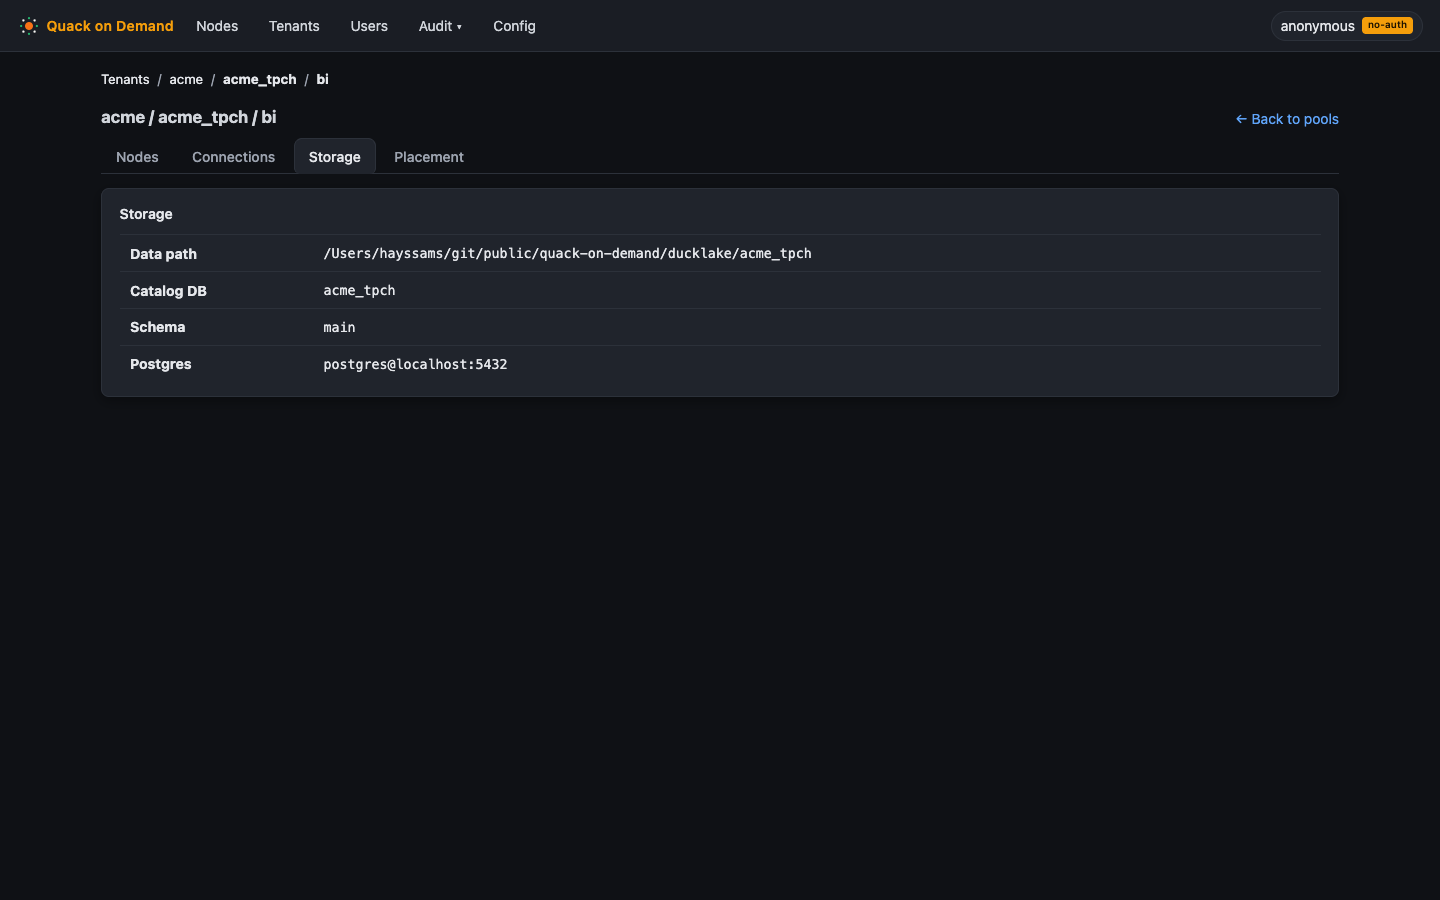
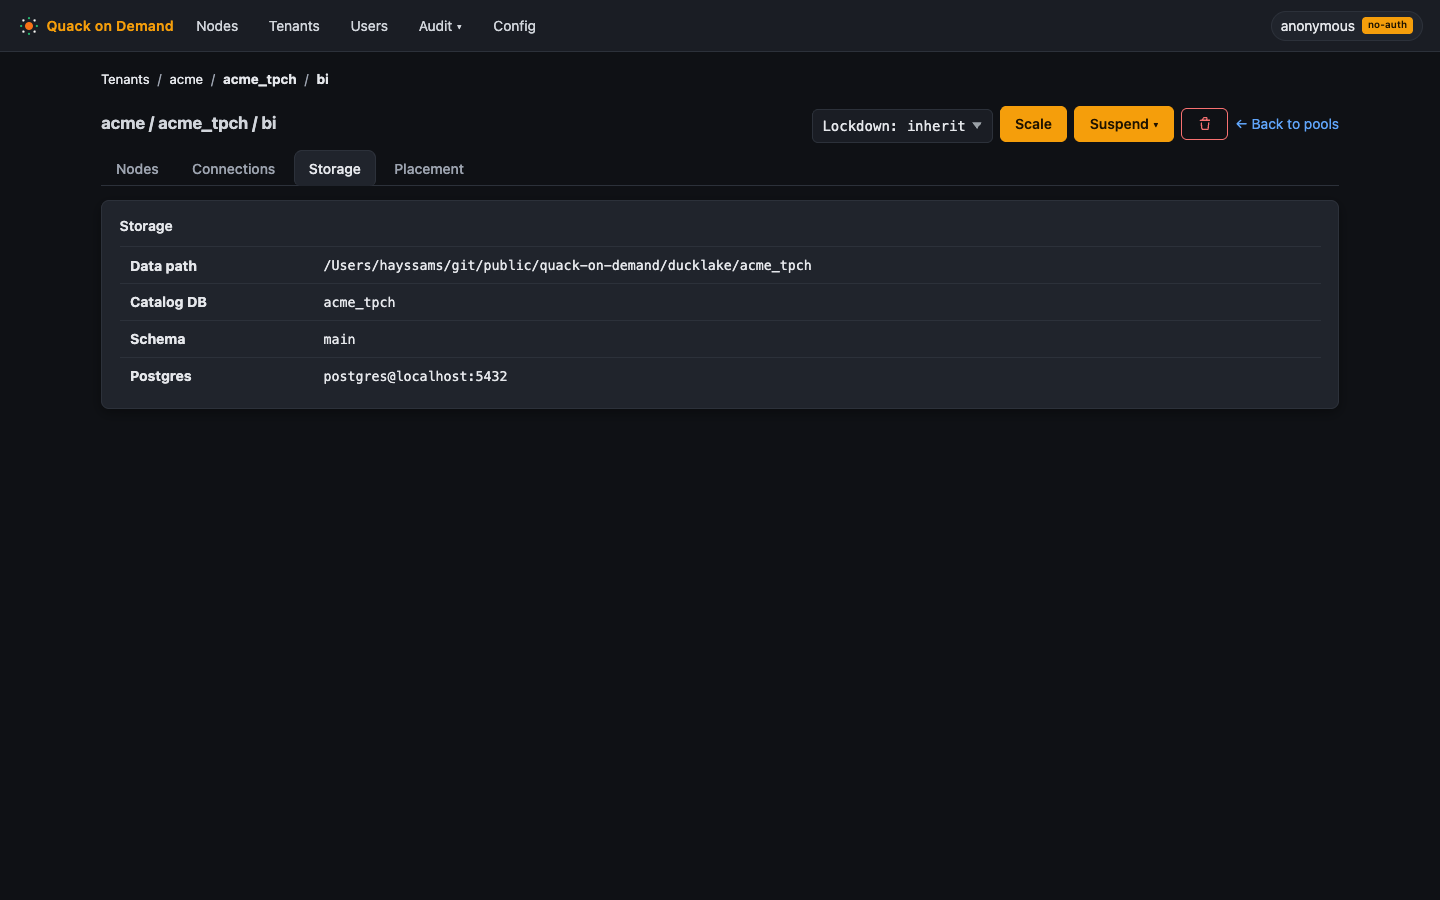
docs: mark project stable and refresh pool UI screenshots
README project status goes from Beta to Stable and the single-instance
paragraph now notes opt-in active-active HA on Kubernetes.

Pool lifecycle actions (Scale / Suspend menu with Hibernate-Drain-Kill /
Delete) moved from the tenant Pools list to the pool detail header, so the
screenshots and the admin-ui / day-2 / lifecycle prose are updated to match,
including a new pool-detail-suspend-menu image.

Changed region(s): [[0.0625, 0.1244, 0.9375, 0.4667], [0.6875, 0.0933, 0.9375, 0.1556], [0.5625, 0.1244, 0.6562, 0.1556]]

diff --git a/website/docs/operating/admin-ui.md b/website/docs/operating/admin-ui.md
@@ -80,17 +80,20 @@ Clicking **Federation** opens the federated-source panel, where DuckDB `ATTACH` 
 
 ### Pools
 
-The **Pools** tab lists each pool with its database, node count, an enable/disable toggle, and actions:
+The **Pools** tab lists each pool with its database, node count, and an enable/disable toggle. Clicking a pool name opens the pool detail inline; the lifecycle actions (Scale, Suspend, Delete) live on the detail page.
 
-- **Scale** opens a modal with the target role distribution (WriteOnly / ReadOnly / Dual counts) and, when scaling down, a **Force** checkbox that skips the graceful drain (outstanding queries fail).
-- **Drain** is the graceful stop (stop accepting new queries, then shut down); **Force** stops immediately.
-- **Delete** removes the pool from the registry after stopping it.
-
-The **New pool** form takes the role distribution, optional pool init SQL, optional CPU and memory limits for the pool's node pods (sliders; applied as both request and limit on Kubernetes), a **Create disabled** toggle (nodes spawn, but the edge rejects fresh handshakes until enabled), and the node-placement section described below. Clicking a pool name opens the pool detail inline.
+The **New pool** form takes the role distribution, optional pool init SQL, optional CPU and memory limits for the pool's node pods (sliders; applied as both request and limit on Kubernetes), a **Create disabled** toggle (nodes spawn, but the edge rejects fresh handshakes until enabled), and the node-placement section described below.
 
 ### Pool detail
 
-The pool detail page has tabs for **Nodes**, **Connections**, **Storage**, and **Placement**.
+The pool detail page has tabs for **Nodes**, **Connections**, **Storage**, and **Placement**. Its header carries the pool's lifecycle actions:
+
+- **Scale** opens a modal with the target role distribution (WriteOnly / ReadOnly / Dual counts; the target size is their sum) and, when scaling down, a **Force** checkbox that skips the graceful drain (outstanding queries fail).
+- **Suspend** is a menu with three ways to zero nodes: **Hibernate** (nodes stop, the role distribution is kept, and the first query wakes the pool automatically), **Drain** (finish routing, then stop; stays down), and **Kill** (stop immediately; outstanding queries fail; stays down). A hibernated pool shows a **Hibernated** badge and the menu is replaced by a **Wake** button.
+- **Delete** (the trash button) removes the pool from the registry after stopping it.
+- Superusers also get the pool's **Lockdown** override selector (`inherit | on | off`), described in [Hardening](/operating/hardening).
+
+![The pool Suspend menu with Hibernate, Drain, and Kill](/img/ui/pool-detail-suspend-menu.png)
 
 The **Nodes** tab shows the per-node table with role, host, and port, plus per-pool **CPU limit** and **Memory limit** editors (checkbox + slider, with a **Save** button; a note reminds that node restarts apply resource changes and that sizing is Kubernetes-only) and a per-node **Max concurrent** input (0 = unlimited, saved on blur). Superusers get the same **Quarantine** / **Restart** actions as on the Nodes page.
 

diff --git a/website/docs/administration/day-2-operations.md b/website/docs/administration/day-2-operations.md
@@ -58,7 +58,7 @@ Per-node fields surfaced via `qod --json pool list`:
 1. Click **Tenants** in the top navigation bar and select the target tenant.
 2. On the **Pools** tab, click the pool name to open its detail page.
 3. Click **Scale**.
-4. Set the new **Target size** (total node count) and adjust the **Role distribution** sliders (WriteOnly, ReadOnly, Dual). The distribution must sum to the target size.
+4. Set the **Role distribution** counts (WriteOnly, ReadOnly, Dual). The target size is their sum, shown above the form.
 5. Click **Apply**. The manager computes the diff: surplus nodes are stopped, and deficit nodes are spawned.
 
 ![Pool detail](/img/ui/pool-detail.png)
@@ -98,10 +98,12 @@ qod pool scale --tenant acme --db acme_tpch --pool bi --target-size 6 \
 
 **Steps (UI):**
 
-1. Click **Tenants**, select the tenant, and open the **Pools** tab.
-2. Two stop actions appear per pool:
+1. Click **Tenants**, select the tenant, open the **Pools** tab, and click the pool name to open its detail page.
+2. The **Suspend** menu in the header offers two stop actions:
    - **Drain** - graceful stop. Each node is marked as draining in the router so no new statements are routed to it, then the node process is stopped. Use this during planned maintenance when you want to stop routing new queries to the pool before it shuts down. Drain does not wait for in-flight queries to finish, so statements already executing on a node can still be interrupted.
-   - **Force** - immediate stop. Nodes are stopped without a draining period. Any statements in flight on those nodes are failed and returned to the client as errors. Use this when a pool is wedged and drain is not making progress.
+   - **Kill** - immediate stop (`force` on the REST and CLI surface). Nodes are stopped without a draining period. Any statements in flight on those nodes are failed and returned to the client as errors. Use this when a pool is wedged and drain is not making progress.
+
+   The menu's third entry, **Hibernate**, suspends the pool instead: also zero nodes, but the role distribution is kept and the first query wakes the pool automatically.
 3. After either action the pool row stays in the registry with zero nodes and a zero distribution. It is not deleted. Reconcile will not respawn nodes because the persisted distribution is zero.
 4. To bring the pool back: use **Scale** and set a non-zero target size.
 

diff --git a/website/docs/administration/lifecycle-config.md b/website/docs/administration/lifecycle-config.md
@@ -82,8 +82,8 @@ Placeholders in `setupSql`:
 1. Go to **Tenants** -> **Databases** -> **Federation** for the relevant database.
 2. Find the federated source and open its secret list.
 3. Click the secret row and enter the new value. The `PUT` is an upsert; only the value field changes, not the `setupSql`.
-4. Go to the **Pools** tab and select the pool that uses this database.
-5. Click **Drain** to stop accepting new queries, then wait for in-flight statements to complete. Click **Scale** to bring nodes back up (or use **Force** if immediate replacement is acceptable). New nodes start with the updated secret value injected into their `setupSql`.
+4. Go to the **Pools** tab and click the name of the pool that uses this database to open its detail page.
+5. In the header, choose **Suspend** -> **Drain** to stop accepting new queries, then wait for in-flight statements to complete. Click **Scale** to bring nodes back up (or use **Suspend** -> **Kill** if immediate replacement is acceptable). New nodes start with the updated secret value injected into their `setupSql`.
 
 **Manifest (YAML)**
 
@@ -168,7 +168,7 @@ The import response is a JSON count: `{"tenants":2,"tenantDbs":3,"pools":4,...}`
 
 **Steps (UI)**:
 
-1. **Delete a pool**: Go to **Tenants**, select the tenant, open the **Pools** tab, select the pool, and click **Delete**. This stops all nodes and removes the pool from the registry. To stop nodes temporarily without removing the pool, click **Drain** instead.
+1. **Delete a pool**: Go to **Tenants**, select the tenant, open the **Pools** tab, click the pool name to open its detail page, and click the **Delete** (trash) button in the header. This stops all nodes and removes the pool from the registry. To stop nodes temporarily without removing the pool, use **Suspend** -> **Drain** instead.
 2. **Delete a tenant**: Once all pools are removed, go to **Tenants**, select the tenant, and click **Delete**.
 3. **Remove a user, role, or group**: Go to **Users**, select the tenant scope at the top, find the object on the appropriate tab, and click **Delete**.
 

diff --git a/README.md b/README.md
@@ -21,9 +21,9 @@ DuckLake gives you a Postgres-backed lakehouse catalog. DuckDB gives you the eng
 
 ### Project status
 
-**Beta.** In active use against the documented surface: multi-tenant FlightSQL gateway, per-tenant DuckLake catalogs, the full RBAC graph (users / groups / roles / table permissions / pool grants), statement-level federation across external Postgres / S3 / Iceberg, and YAML-round-trippable control-plane manifests. The REST API, FlightSQL wire protocol, control-plane schema, and CLI surface are stable.
+**Stable.** In production use against the documented surface: multi-tenant FlightSQL gateway, per-tenant DuckLake catalogs, the full RBAC graph (users / groups / roles / table permissions / pool grants), statement-level federation across external Postgres / S3 / Iceberg, and YAML-round-trippable control-plane manifests. The REST API, FlightSQL wire protocol, control-plane schema, and CLI surface are stable.
 
-The gateway is a **single-instance manager** by design: safely restartable, but not active-active yet. Worker pools scale horizontally; the manager itself is one process.
+The manager runs as a **single instance** by default (safely restartable), and supports opt-in **active-active HA** on Kubernetes (`replicaCount > 1`). Worker pools scale horizontally in both modes.
 
 **Documentation:** https://qod.starlake.ai - full guides, configuration reference, and REST API.
 Jump to: [Quickstart](https://qod.starlake.ai/getting-started/quickstart) · [`RUNNING.md`](guides/RUNNING.md) · [`API.md`](guides/API.md) · [Architecture](https://qod.starlake.ai/concepts/architecture) · [RBAC model](https://qod.starlake.ai/operating/rbac-model) · [`CONTRIBUTING.md`](CONTRIBUTING.md)
